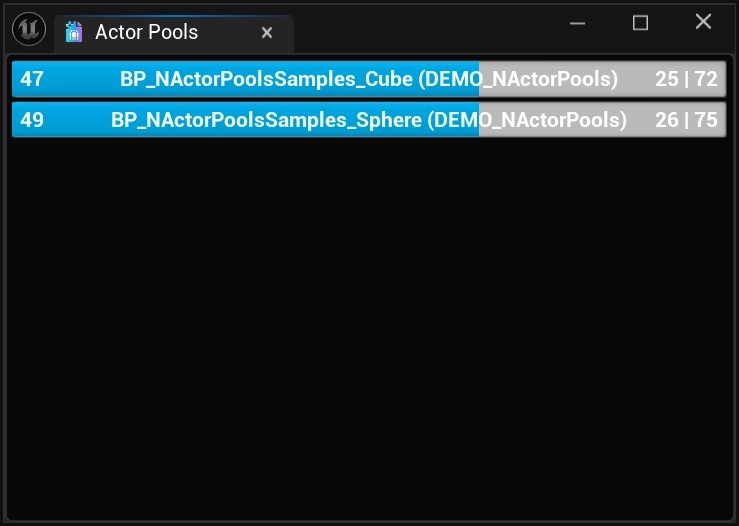
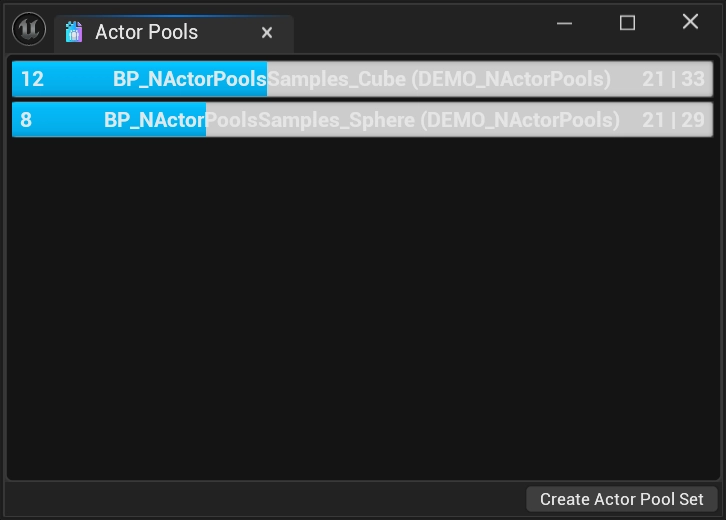
ActorPools overlay docs

diff --git a/docs/plugins/actor-pools/developer-overlay.md b/docs/plugins/actor-pools/developer-overlay.md
@@ -19,11 +19,11 @@ By going to `Tools > NEXUS > Actor Pools`, you can create an [UNEditorUtilityWid
 
 ## Understanding The Bars
 
-The number at the left-most part of the progress bar represents the total number of `AActors` that are currently considered available (**in**) to **Spawn** from the [FNActorPool](types/actor-pool.md). For the pools above, this would be `47` for the `BP_NActorPoolsSamples_Cube` pool, and `49` for the `BP_NActorPoolsSamples_Sphere` pool.
+The number at the left-most part of the progress bar represents the total number of `AActors` that are currently considered available (**in**) to **Spawn** from the [FNActorPool](types/actor-pool.md). For the pools above, this would be `12` for the `BP_NActorPoolsSamples_Cube` pool, and `8` for the `BP_NActorPoolsSamples_Sphere` pool.
 
 In the middle of the progress bar is the `AActor`/[FNActorPool](types/actor-pool.md) name, as well as the `UWorld` that the pool is located in.
 
-The final set of numbers represents the total number of `AActors` that are currently spawned (**out**) from the [FNActorPool](types/actor-pool.md), and the total number of `AActors` that the [FNActorPool](types/actor-pool.md) has under it's ownership. In the case of the pools above, this would be `25` spawned and `72` owned `AActors` for the `BP_NActorPoolsSamples_Cube` pool, and `26` spawned and `75` owned `AActors` for the `BP_NActorPoolsSamples_Sphere` pool.
+The final set of numbers represents the total number of `AActors` that are currently spawned (**out**) from the [FNActorPool](types/actor-pool.md), and the total number of `AActors` that the [FNActorPool](types/actor-pool.md) has under it's ownership. In the case of the pools above, this would be `21` spawned and `21` owned `AActors` for the `BP_NActorPoolsSamples_Cube` pool, and `33` spawned and `29` owned `AActors` for the `BP_NActorPoolsSamples_Sphere` pool.
 
 The actual progress bar itself represents the overall health of the [FNActorPool](types/actor-pool.md) in terms of how many `AActors` are available to be spawned in contrast to the overall owned `AActors`.
 
@@ -32,3 +32,9 @@ The actual progress bar itself represents the overall health of the [FNActorPool
 This overlay (`WB_NActorPoolsDeveloperOverlay`) can be included in packaged builds and  will function just like an `UUserWidget`-based widget.
 
 :::
+
+## Editor-Only Features
+
+At the bottom of the `EditorUtilityWidget` is a button bar that houses the `Create Actor Pool Set` button.
+
+Clicking this button will save out a [UNActorPoolSet](types/actor-pool-set.md) based on the currently known [FNActorPool](types/actor-pool.md).
